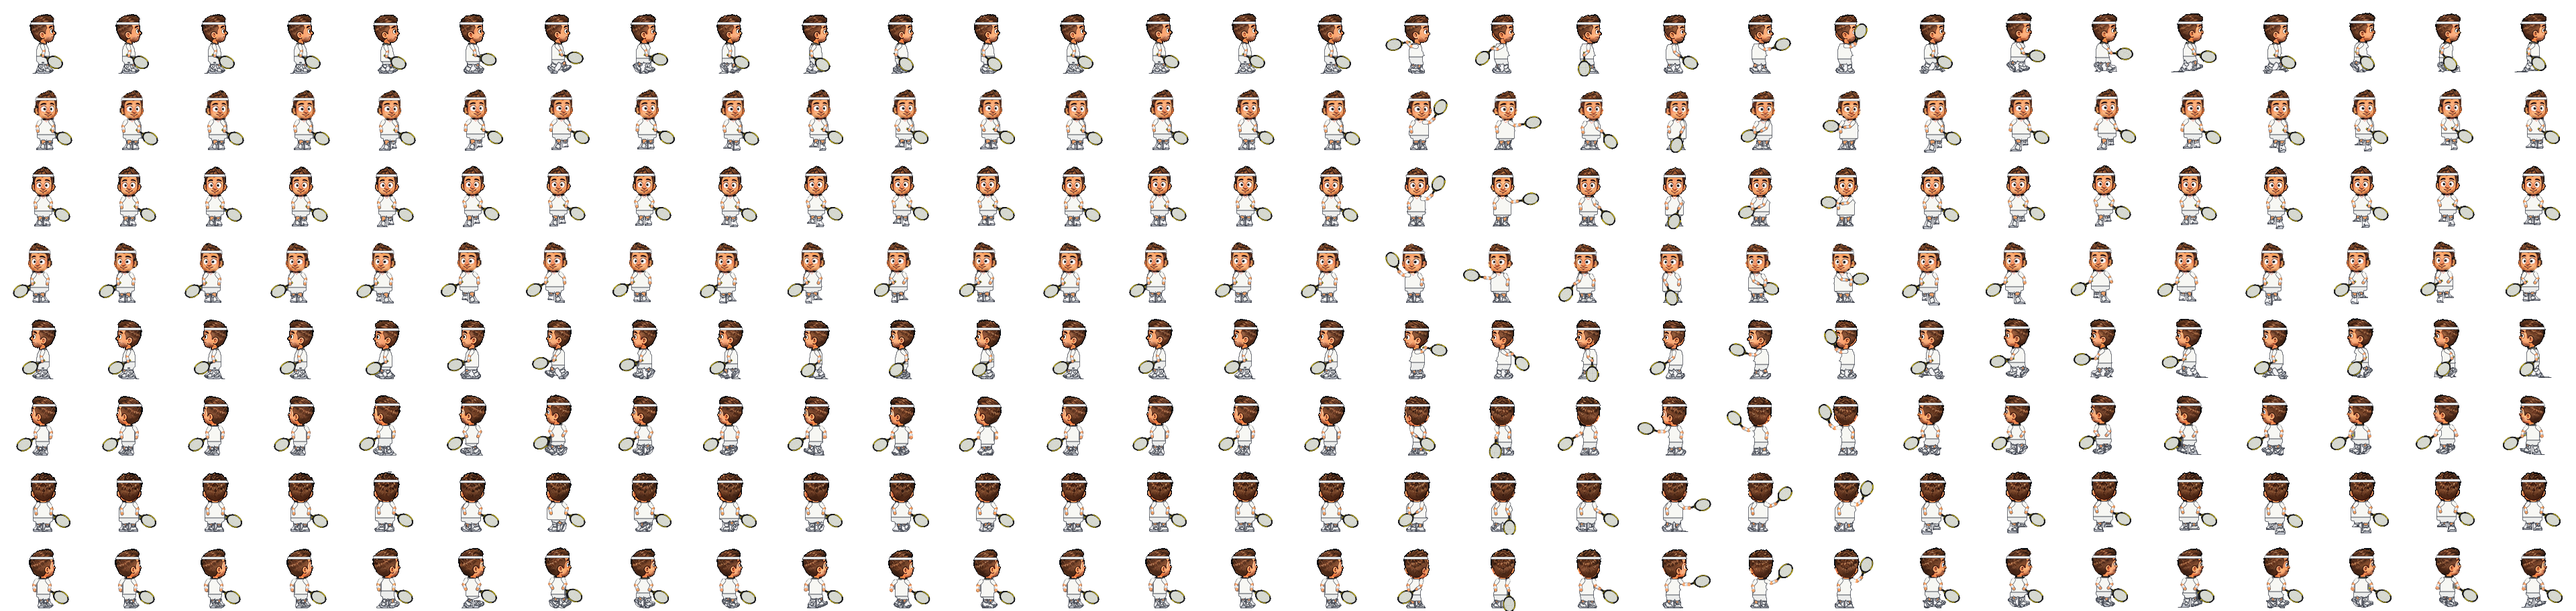
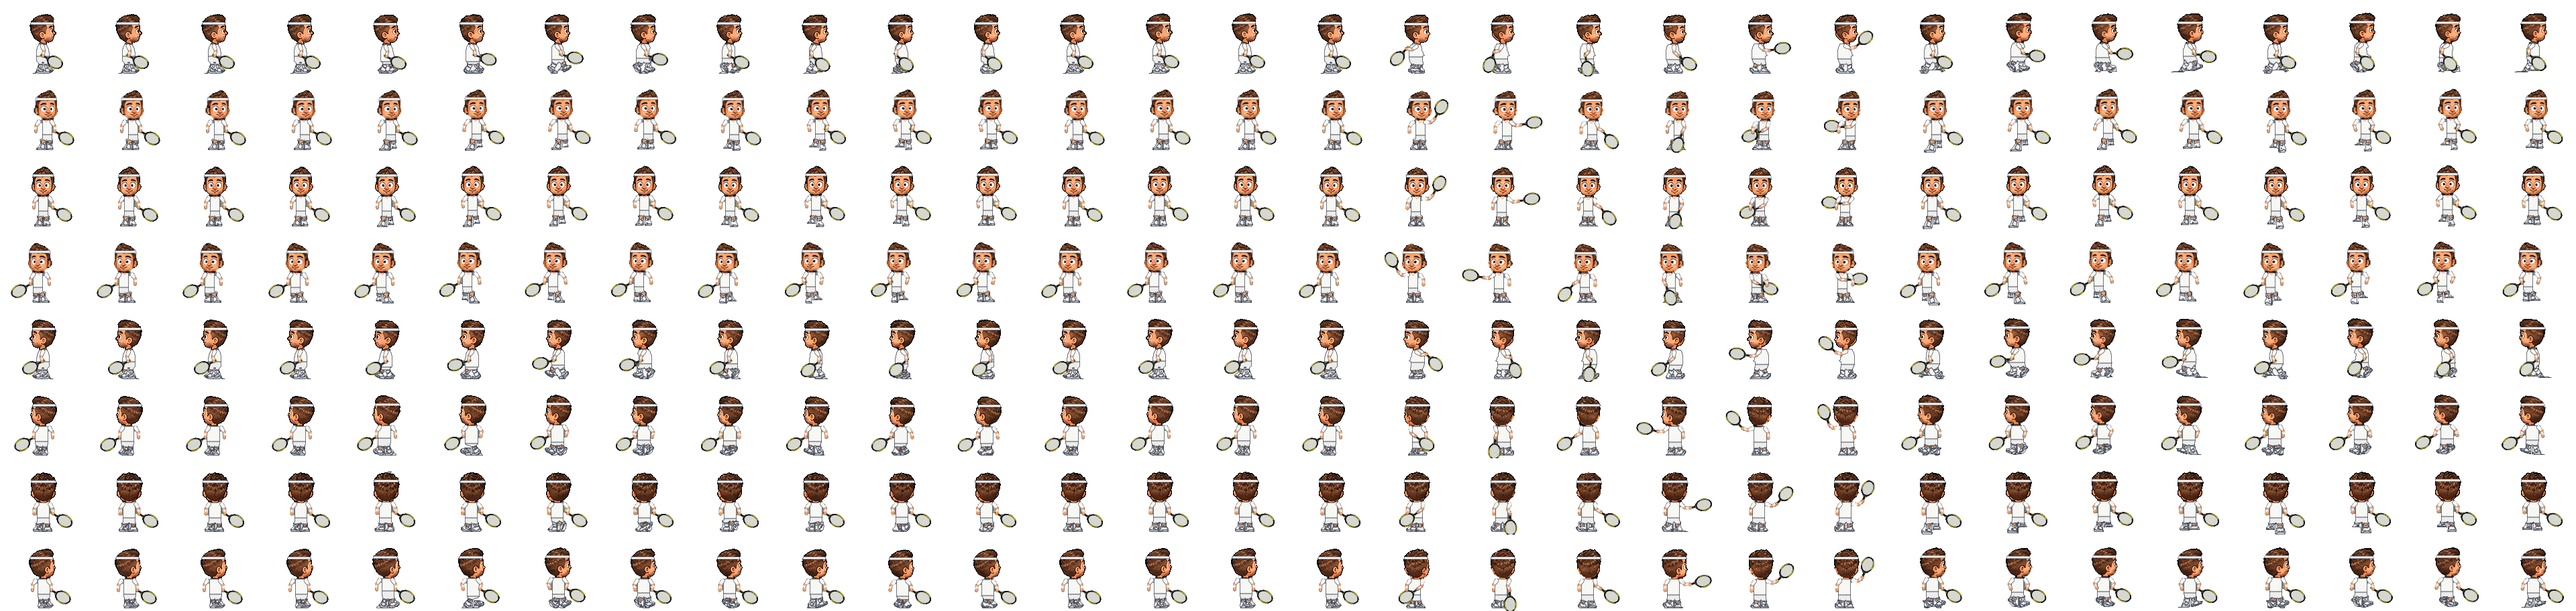
Tennis James: torso width matches base sprite (+check), arms hang with a gap, no far-side hand/ear behind head in side tag

diff --git a/phaser-tag-client/tools/make_tennis_skin.py b/phaser-tag-client/tools/make_tennis_skin.py
@@ -31,7 +31,7 @@ import numpy as np
 from PIL import Image, ImageDraw, ImageFilter
 
 from make_banana_skin import Geometry, alpha_mask, arms_and_hands, components8, grow, skin_mask
-from solid_mask import solidify
+from solid_mask import base_center, solidify, torso_span
 from make_pirate_skin import TAG_SIDE, anim_of, pick_hand
 from make_tuxedo_skin import close_streaks
 from make_wizard_skin import arm_tip, down, over, premul, reach_tip, to_u8, up_mask
@@ -232,7 +232,7 @@ def arm_parts(sh, elbow, hand, skin, sleeve=0.4):
 # swing: shoulder->hand angle (deg, screen, y down) over the 6 tag frames, for
 # a right-hand-side (+1) arm; racket angle = arm angle + lag
 SWING = {
-    "profile": ([205, 165, 115, 62, 18, -12], [-35, -30, -25, -30, -38, -55]),
+    "profile": ([168, 142, 108, 66, 28, 6], [-35, -32, -26, -30, -38, -48]),
     "front": ([-20, 15, 55, 95, 128, 150], [-40, -25, -5, 15, 30, 35]),
     "back": ([120, 88, 55, 22, -2, -18], [25, 0, -20, -35, -45, -50]),
 }
@@ -256,10 +256,13 @@ def swing_pose(direction, p_idx):
 
 
 
+ARM_X = 9.5
+
+
 def racket_shoulder(g, direction, side):
     if direction in PROFILE:
         return (g.head_cx - PROFILE[direction] * 0.5, g.neck + 4.5)
-    return (g.head_cx + (side or 1) * 8.0, g.neck + 4.5)
+    return (g.head_cx + (side or 1) * ARM_X, g.neck + 4.5)
 
 
 def pend_hand(sh, direction, side, phi):
@@ -269,8 +272,8 @@ def pend_hand(sh, direction, side, phi):
         fx = PROFILE[direction]
         return (sh[0] + fx * R * math.sin(phi) + fx * 1.0, sh[1] + R * math.cos(phi))
     fx = {"SE": 1, "SW": -1, "NE": 1, "NW": -1}.get(direction, 0) * (1 if direction in FRONT else -1)
-    out = (side or 1) * 3.0
-    return (sh[0] + out + fx * 0.5 * R * math.sin(phi), sh[1] + R * (0.96 - 0.12 * abs(math.sin(phi))))
+    out = (side or 1) * 4.5
+    return (sh[0] + out + fx * 0.3 * R * math.sin(phi), sh[1] + R * (0.96 - 0.12 * abs(math.sin(phi))))
 
 
 # --- per frame ----------------------------------------------------------------------
@@ -366,26 +369,40 @@ def tennify(frame, direction, anim, col, meta, memo, env_memo):
             if len(xs):
                 body[y, xs.min():xs.max() + 1] = True
 
-    # canonical torso: per-row half-widths from the direction's first idle frame
-    # (monotone from the shoulders down), stamped on every frame so removed
-    # arms never leave notches and the torso keeps one shape frame to frame
-    tkey = ("tmpl", direction)
-    if tkey not in env_memo:
-        L, R = [], []
+    if direction not in PROFILE:
+        # torso = the base idle shirt between its own outline columns (arms
+        # excluded); one width per direction so it never jitters
+        if ("tw", direction) not in env_memo:
+            b0 = meta["_base_idle"][direction]
+            env_memo[("tw", direction)] = torso_span(b0, range(58, 70), base_center(b0)) + (base_center(b0),)
+        Lm, Rm, bcx = env_memo[("tw", direction)]
+        cx0 = int(round(g.hip_cx))
+        x0, x1 = cx0 - int(round(Lm)), cx0 + int(round(Rm)) + 1
         for y in range(g.neck + 2, g.hem - 3):
-            xs = np.nonzero(body[y])[0]
-            L.append(g.hip_cx - xs.min() if len(xs) else 0)
-            R.append(xs.max() + 1 - g.hip_cx if len(xs) else 0)
-        L = np.maximum.accumulate(np.array(L, float))
-        R = np.maximum.accumulate(np.array(R, float))
-        env_memo[tkey] = (L, R)
-    L, R = env_memo[tkey]
-    for i in range(len(L)):
-        y = g.neck + 2 + i
-        if y >= g.hem - 3:
-            break
-        x0, x1 = int(round(g.hip_cx - L[i])), int(round(g.hip_cx + R[i]))
-        body[y, max(x0, 0):min(x1, w)] = True
+            body[y, :] = False
+            body[y, max(x0, 0):min(x1, w)] = True
+        env_memo[("tspan", direction)] = (x0, x1)
+    else:
+        # canonical torso: per-row half-widths from the direction's first idle frame
+        # (monotone from the shoulders down), stamped on every frame so removed
+        # arms never leave notches and the torso keeps one shape frame to frame
+        tkey = ("tmpl", direction)
+        if tkey not in env_memo:
+            L, R = [], []
+            for y in range(g.neck + 2, g.hem - 3):
+                xs = np.nonzero(body[y])[0]
+                L.append(g.hip_cx - xs.min() if len(xs) else 0)
+                R.append(xs.max() + 1 - g.hip_cx if len(xs) else 0)
+            L = np.maximum.accumulate(np.array(L, float))
+            R = np.maximum.accumulate(np.array(R, float))
+            env_memo[tkey] = (L, R)
+        L, R = env_memo[tkey]
+        for i in range(len(L)):
+            y = g.neck + 2 + i
+            if y >= g.hem - 3:
+                break
+            x0, x1 = int(round(g.hip_cx - L[i])), int(round(g.hip_cx + R[i]))
+            body[y, max(x0, 0):min(x1, w)] = True
     # drop thin (<=2 px) outline strands of removed arms: 3x3 opening on the torso rows
     def _nb_all(m):
         e = m.copy()
@@ -515,7 +532,7 @@ def tennify(frame, direction, anim, col, meta, memo, env_memo):
         if direction in PROFILE:
             sh = (g.head_cx - PROFILE[direction] * 0.5, g.neck + 4.5)
         else:
-            sh = (g.head_cx + side * 8.0, g.neck + 4.5)
+            sh = (g.head_cx + side * ARM_X, g.neck + 4.5)
         reach = 15.0
         hand = (sh[0] + math.cos(ai) * reach, sh[1] + math.sin(ai) * reach)
         # elbow droops (down / away from the head)
@@ -548,7 +565,7 @@ def tennify(frame, direction, anim, col, meta, memo, env_memo):
         geo.append((sh, (hx, hy)))
     if direction not in PROFILE:
         osd = -side if side else -1
-        sh2 = (g.head_cx + osd * 8.0, g.neck + 4.5)
+        sh2 = (g.head_cx + osd * ARM_X, g.neck + 4.5)
         geo.append((sh2, pend_hand(sh2, direction, osd, -phi_)))
     for shp, hp in geo:
         e1 = ik(shp, hp, 8.0, 7.6, 1)
@@ -618,6 +635,7 @@ def main():
     src = np.asarray(Image.open(ASSETS / meta["image"]).convert("RGBA"))
     ofw, ofh = fw + 2 * PAD_SIDE, fh + PAD_TOP
     out = np.zeros((len(dirs) * ofh, cols * ofw, 4), dtype=np.uint8)
+    meta["_base_idle"] = {d: src[r * fh:(r + 1) * fh, 0:fw] for r, d in enumerate(dirs)}
     for r, direction in enumerate(dirs):
         memo: dict = {}
         env_memo: dict = {}
@@ -628,6 +646,7 @@ def main():
     assert max(out.shape[:2]) <= 4096, out.shape
     Image.fromarray(out).save(ASSETS / "kid_tennis.png", optimize=True)
     pm = dict(meta)
+    pm.pop("_base_idle", None)
     pm["image"] = "kid_tennis.png"
     pm["frameWidth"], pm["frameHeight"] = ofw, ofh
     pm["baselineY"] = meta["baselineY"] + PAD_TOP

diff --git a/phaser-tag-client/tools/check_tennis_width.py b/phaser-tag-client/tools/check_tennis_width.py
@@ -1,0 +1,47 @@
+"""Assert Tennis James torso width matches the base kid sprite (front/back/diagonal views)."""
+import json
+import sys
+from pathlib import Path
+
+import numpy as np
+from PIL import Image
+
+A = Path(__file__).resolve().parent.parent / "public" / "assets"
+bm = json.loads((A / "kid.json").read_text())
+tm = json.loads((A / "kid_tennis.json").read_text())
+base = np.asarray(Image.open(A / bm["image"]).convert("RGBA")).astype(int)
+ten = np.asarray(Image.open(A / tm["image"]).convert("RGBA")).astype(int)
+bw, bh, tw, th = bm["frameWidth"], bm["frameHeight"], tm["frameWidth"], tm["frameHeight"]
+px, py = (tw - bw) // 2, th - bh
+
+
+from solid_mask import base_center, torso_span  # noqa: E402
+
+TAG = range(bm["animations"]["tag"]["start"], bm["animations"]["tag"]["start"] + bm["animations"]["tag"]["count"])
+
+
+def width(f, rows, cx, thr):
+    L, R = torso_span(f, rows, cx, thr)
+    return L + R
+
+
+bad = 0
+for r, d in enumerate(bm["directions"]):
+    if d in ("E", "W"):
+        continue
+    b0 = base[r * bh:(r + 1) * bh, 0:bw]
+    wb = width(b0, range(58, 70), base_center(b0), 120)
+    for c in range(bm["columns"]):
+        if c in TAG:
+            continue  # the base tag arm lies across the torso; not comparable
+        b = base[r * bh:(r + 1) * bh, c * bw:(c + 1) * bw]
+        t = ten[r * th:(r + 1) * th, c * tw:(c + 1) * tw]
+        band = t[58 + py:70 + py]
+        wy, wx = np.nonzero((band[..., :3].astype(int).sum(-1) > 720) & (band[..., 3] == 255))
+        tcx = int(np.median(wx)) if len(wx) else base_center(b) + px
+        wt = width(t, range(58 + py, 70 + py), tcx, 450)
+        if abs(wb - wt) > 1.5:
+            print(f"{d} col {c}: base {wb} tennis {wt}")
+            bad += 1
+print(f"{bad} width mismatches")
+sys.exit(1 if bad else 0)

diff --git a/phaser-tag-client/tools/solid_mask.py b/phaser-tag-client/tools/solid_mask.py
@@ -71,3 +71,35 @@ def solidify(res, close_rows=None):
     res[todo, :3] = np.clip(col[todo], 0, 255).astype(np.uint8)
     res[todo, 3] = 255
     return res
+
+
+def torso_span(f, rows, cx, thr=120):
+    """median left/right torso extent from cx: scan outward to the first dark
+    outline pixel (after >=3 lit ones) or the silhouette edge"""
+    c = f[..., :3].astype(int)
+    lum = c.sum(-1)
+    # racket string bed / strings (slightly yellow-green, b < g) count as an edge
+    lum = np.where((c[..., 1] - c[..., 2] >= 6) & (lum > 300), 0, lum)
+    al = f[..., 3] >= 128
+    Ls, Rs = [], []
+    for y in rows:
+        def scan(dx):
+            x, seen = cx, 0
+            while 0 < x < f.shape[1] - 1:
+                x += dx
+                if not al[y, x]:
+                    return x - dx
+                if lum[y, x] < thr:
+                    if seen >= 3:
+                        return x
+                else:
+                    seen += 1
+            return x
+        Ls.append(cx - scan(-1))
+        Rs.append(scan(1) - cx)
+    return float(np.median(Ls)), float(np.median(Rs))
+
+
+def base_center(b):
+    ys, xs = np.nonzero(b[..., 3][60:72] >= 128)
+    return int(round((xs.min() + xs.max()) / 2))
